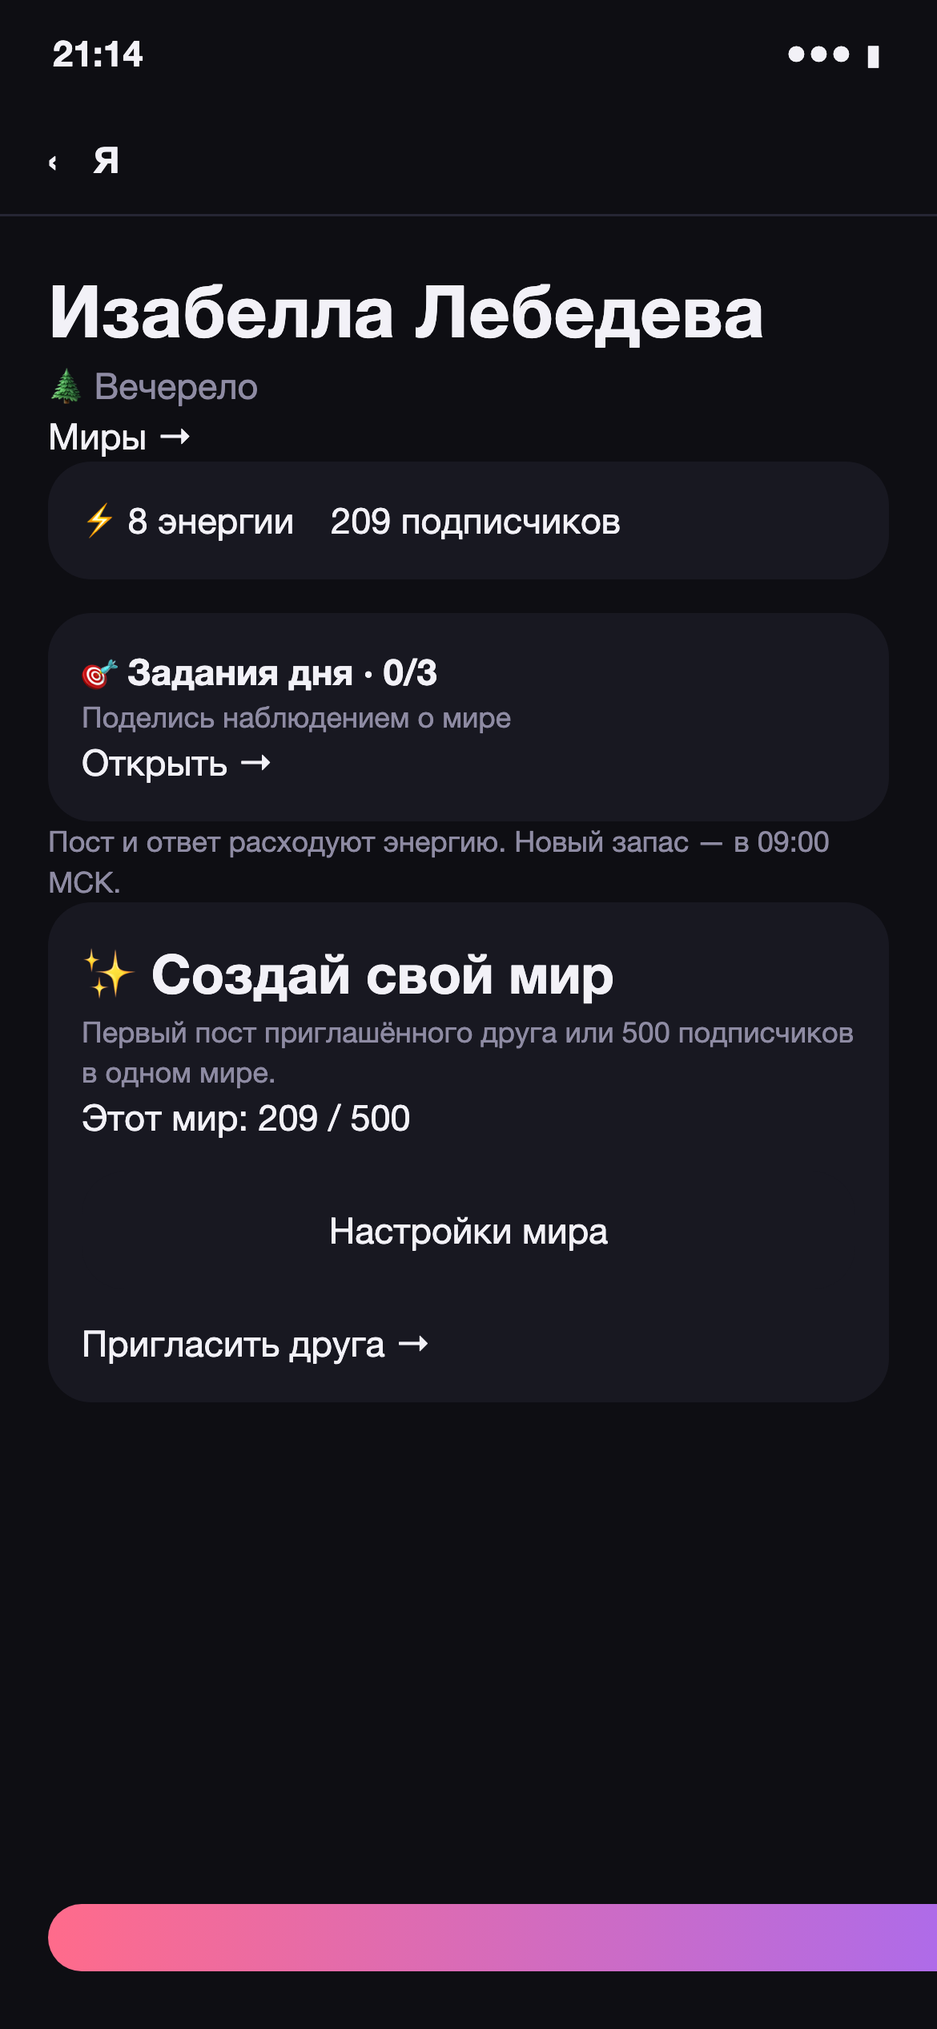
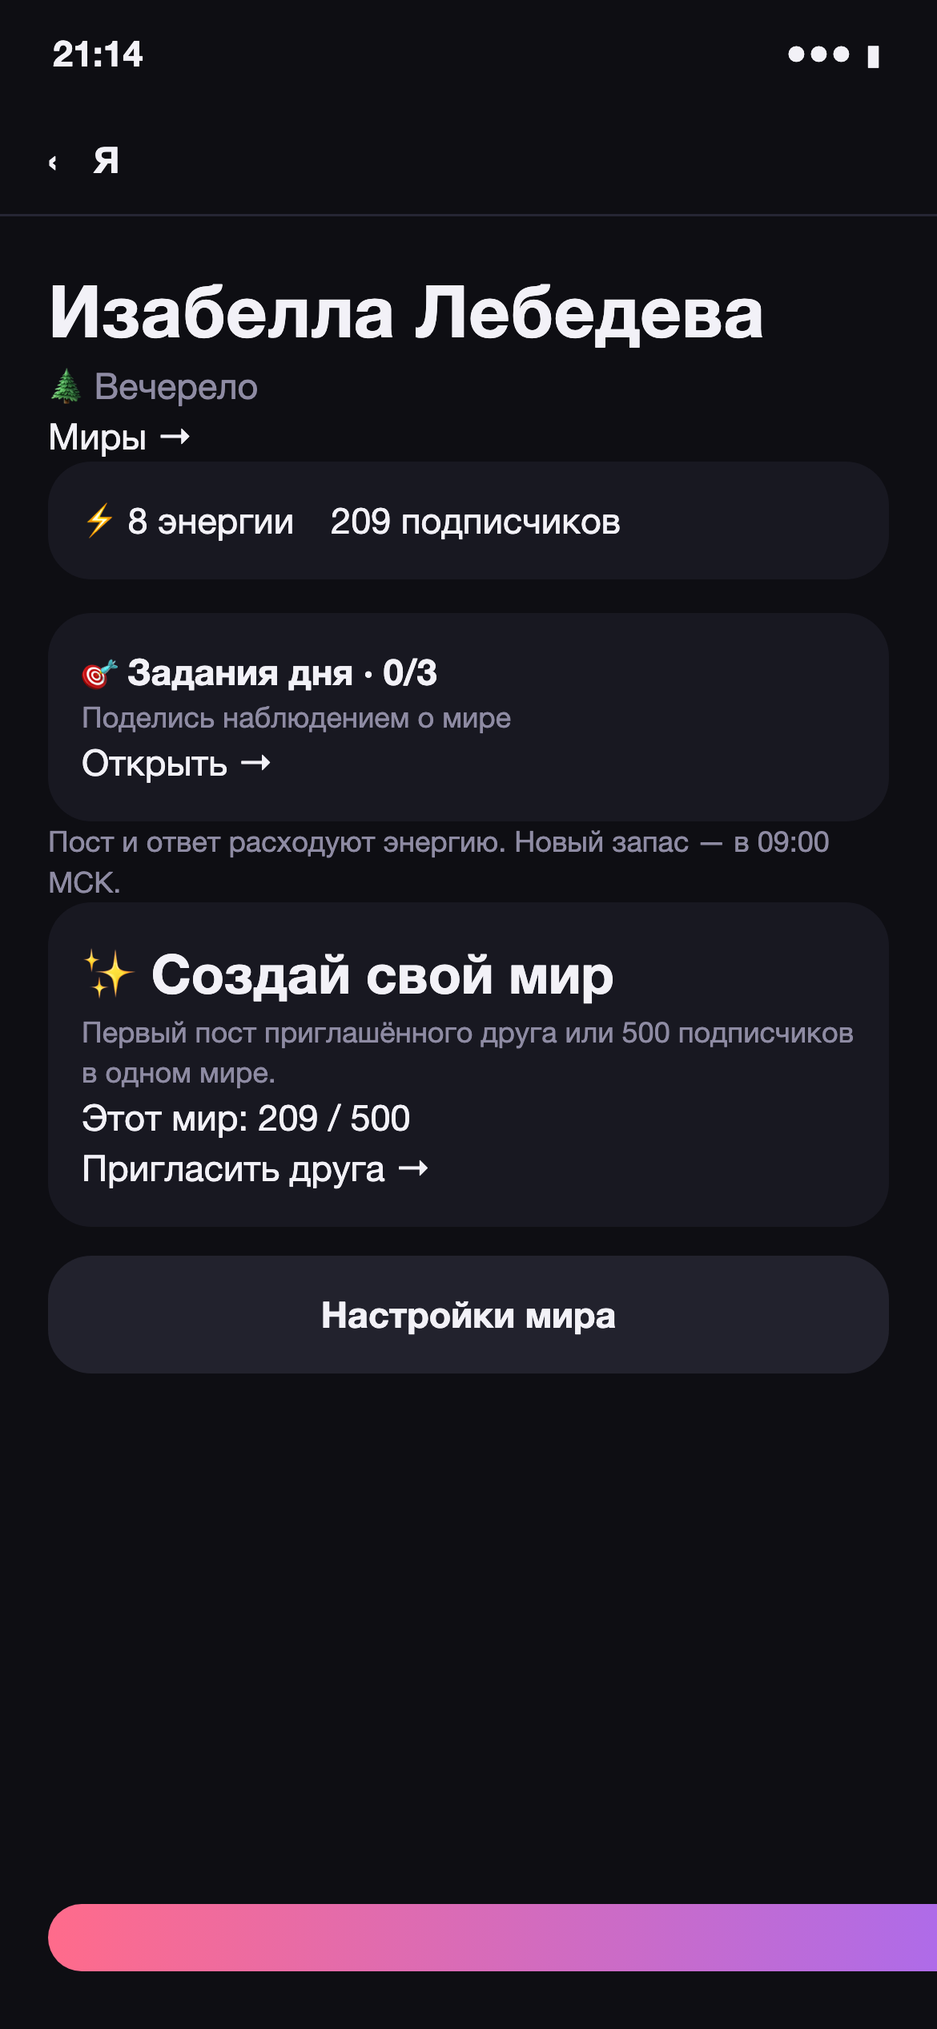
#189 Refine button hierarchy and separate current world settings

Changed region(s): [[0.3077, 0.5616, 0.6462, 0.6864], [0.0923, 0.6552, 0.2769, 0.6864], [0.0923, 0.5616, 0.2769, 0.5928]]

diff --git a/frontend/src/screens/day.tsx b/frontend/src/screens/day.tsx
@@ -271,7 +271,8 @@ function Me() {
           {[[`⚡ ${p.postsLeft}`, 'энергии'], [fmt(p.subs), 'подписчиков']].map(([v, l]) => <Card key={l} style={{ padding: 14, textAlign: 'center' }}><div style={{ fontWeight: 800, fontSize: 16 }}>{v}</div><div className="small muted">{l}</div></Card>)}
         </div>
         <div className="profile-task-row"><div><b>💡 О чём написать</b><p className="small muted">{p.wants[0]?.text ?? "Поделись событием из своего мира"}</p></div><button className="text-link small" onClick={() => nav.push('02-1_compose')}>Написать →</button></div><p className="small muted energy-help">Пост и ответ расходуют энергию. Новый запас — в 09:00 МСК.</p>
-        <Card style={{ marginBottom: 18 }}><b>{p.hitOwnWorldMilestone ? '✨ Свой мир открыт' : '✨ Создай свой мир'}</b><p className="small muted">{p.hitOwnWorldMilestone ? 'Доступ подтверждён. Можно придумать свою историю.' : 'Первый пост приглашённого друга или 500 подписчиков в одном мире.'}</p>{!p.hitOwnWorldMilestone && <><progress aria-label="Подписчики до открытия своего мира" value={Math.min(500, p.subs)} max={500} /><div className="small muted">Этот мир: {Math.min(500, p.subs)} / 500</div></>}<Button secondary onClick={() => nav.push('05-11_world_rules')}>Настройки мира</Button><button className="text-link" onClick={() => { if (p.hitOwnWorldMilestone) { beginOwnWorld(p); nav.push('05-7b_own_world', { world: 'own' }) } else nav.push('04-3_invite') }}>{p.hitOwnWorldMilestone ? 'Создать свой мир →' : 'Пригласить друга →'}</button></Card>
+        <Card style={{ marginBottom: 12 }}><b>{p.hitOwnWorldMilestone ? '✨ Свой мир открыт' : '✨ Создай свой мир'}</b><p className="small muted">{p.hitOwnWorldMilestone ? 'Доступ подтверждён. Можно придумать свою историю.' : 'Первый пост приглашённого друга или 500 подписчиков в одном мире.'}</p>{!p.hitOwnWorldMilestone && <><progress aria-label="Подписчики до открытия своего мира" value={Math.min(500, p.subs)} max={500} /><div className="small muted">Этот мир: {Math.min(500, p.subs)} / 500</div></>}<button className="text-link" onClick={() => { if (p.hitOwnWorldMilestone) { beginOwnWorld(p); nav.push('05-7b_own_world', { world: 'own' }) } else nav.push('04-3_invite') }}>{p.hitOwnWorldMilestone ? 'Создать свой мир →' : 'Пригласить друга →'}</button></Card>
+        <div className="profile-world-settings"><Button secondary onClick={() => nav.push('05-11_world_rules')}>Настройки мира</Button></div>
         <Card style={{ marginBottom: 10 }}>
           <div className="row" style={{ justifyContent: 'space-between', marginBottom: 8 }}><b>Серия {p.streak.days} дня</b><span className="small" style={{ color: 'var(--gift)' }}>{p.streak.nextReward}</span></div>
           <div style={{ display: 'flex', gap: 6 }}>{DAYS.map((d, i) => <div key={d} style={{ flex: 1, textAlign: 'center' }}><div style={{ height: 30, borderRadius: 9, display: 'flex', alignItems: 'center', justifyContent: 'center', fontSize: 14, ...(p.streak.week[i] ? { background: 'var(--grad)' } : i === today ? { border: '2px dashed var(--accent)' } : { background: '#20202B' }) }}>{p.streak.week[i] ? '🔥' : i === today ? '?' : ''}</div><div className="small muted" style={{ marginTop: 3 }}>{d}</div></div>)}</div>

diff --git a/frontend/src/screens/worldQuick.tsx b/frontend/src/screens/worldQuick.tsx
@@ -1,4 +1,4 @@
-import { useState } from 'react'
+import { useState, type ReactNode } from 'react'
 import { useStore } from '../app/store'
 import { avatarPersonalization } from '../app/avatarPersonalization'
 import { displayHandle } from '../app/handle'
@@ -73,8 +73,8 @@ export function QuickChannelForm({ draft }: { draft: WorldDraft }) {
     <details className="card profile-preview"><summary><Avatar seed={d.avatar} avatarStyle={d.avatarStyle} profile={{ address: draft.address, ageBand: draft.ageBand, personalizeAvatar: draft.personalizeAvatar }} size={40} /><span><b>{d.name || "Твой персонаж"}</b><span className="small muted">{displayHandle(d.avatar)}</span></span><span className="small">Изменить</span></summary><label className="label">Ник<input aria-label="Ник" value={d.avatar} maxLength={80} onChange={e => updateWorldDraft({ avatar: e.target.value })} /></label><Avatar seed={d.avatar} avatarStyle={d.avatarStyle} profile={{ address: draft.address, ageBand: draft.ageBand, personalizeAvatar: draft.personalizeAvatar }} size={56} /><AvatarPersonalization enabled={draft.personalizeAvatar !== false} onChange={personalizeAvatar => setWorldDraft({ ...draft, personalizeAvatar })} /></details>
   </div><BottomCTA main="Выбрать градус драмы" disabled={!d.name.trim() || !d.role.trim() || !d.avatar.trim()} onMain={() => nav.push('01-4b_world_setup')} /></div>
 }
-export function DramaPicker({ definition: d }: { definition: WorldDefinition }) {
-  return <><h1>Сколько драмы добавим?</h1><p className="muted">Выбери настроение истории. Его можно изменить позже.</p><div className="drama-options">{dramaOptions.map(option => <button className={`drama-option ${d.drama === option.id ? 'selected' : ''}`} aria-pressed={d.drama === option.id} onClick={() => updateWorldDraft({ drama: option.id })} key={option.id}><span className="drama-icon">{option.icon}</span><div><b>{option.title}</b><p>{option.description}</p>{d.drama === option.id && <div className="drama-example">{option.example}</div>}</div><span>{d.drama === option.id ? '✓' : ''}</span></button>)}</div></>
+export function DramaPicker({ definition: d, beforeOptions }: { definition: WorldDefinition; beforeOptions?: ReactNode }) {
+  return <><h1>Сколько драмы добавим?</h1><p className="muted">Выбери настроение истории. Его можно изменить позже.</p>{beforeOptions}<div className="drama-options">{dramaOptions.map(option => <button className={`drama-option ${d.drama === option.id ? 'selected' : ''}`} aria-pressed={d.drama === option.id} onClick={() => updateWorldDraft({ drama: option.id })} key={option.id}><span className="drama-icon">{option.icon}</span><div><b>{option.title}</b><p>{option.description}</p>{d.drama === option.id && <div className="drama-example">{option.example}</div>}</div><span>{d.drama === option.id ? '✓' : ''}</span></button>)}</div></>
 }
 export function WorldPrototypePreview() {
   const draft = useWorldDraft(); const nav = useNav()

diff --git a/frontend/src/screens/worldWizard.tsx b/frontend/src/screens/worldWizard.tsx
@@ -81,7 +81,7 @@ function StarsForm({ draft, quick = false }: { draft: NonNullable<ReturnType<typ
       else setError(cause instanceof ApiError && cause.status === 409 ? 'Мир изменился или создание с нуля пока недоступно. Твои изменения сохранены в черновике.' : cause instanceof ApiError && cause.status === 503 ? 'Проверка истории временно недоступна. Настройки сохранены — попробуй начать ещё раз чуть позже.' : 'Не получилось сохранить мир. Проверь поля и попробуй снова.')
     } finally { setSaving(false) }
   }
-  if (quick) return <div className="screen no-tab"><TopBar title="Настроение истории" onBack={saving ? undefined : nav.back} /><div className="pad"><Button secondary onClick={() => nav.push('05-12_world_advanced')}>Редактировать мир</Button><p className="small muted">Мир можно будет отредактировать позже</p><DramaPicker definition={d} />
+  if (quick) return <div className="screen no-tab"><TopBar title="Настроение истории" onBack={saving ? undefined : nav.back} /><div className="pad"><DramaPicker definition={d} beforeOptions={<div className="drama-world-edit"><Button secondary onClick={() => nav.push('05-12_world_advanced')}>Редактировать мир</Button><p className="small muted">Мир можно будет отредактировать позже</p></div>} />
     <div className="quick-summary"><Avatar seed={d.avatar} avatarStyle={d.avatarStyle} profile={{ address: draft.address, ageBand: draft.ageBand, personalizeAvatar: draft.personalizeAvatar }} /><div><b>{d.name}</b><div className="small muted">{d.title} · {d.role}</div></div></div>
     {draft.previewOnly && <p className="small prototype-note">DEV-прототип: дальше — пример ленты, без создания мира в базе.</p>}
     {error && <p role="alert">{error}</p>}{uncertain && <Button onClick={() => nav.replace('01-3_world')}>Проверить список миров</Button>}

diff --git a/frontend/src/theme.css b/frontend/src/theme.css
@@ -400,3 +400,7 @@ summary:focus-visible { outline: 2px solid var(--lilac); outline-offset: 4px; bo
 .welcome-disclaimer { margin-top: 10px; }
 .welcome-world-choice { text-align: center; font-size: 15px; font-weight: 400; color: var(--lilac); margin-top: 24px; }
 @media (max-width: 350px) { .welcome h1 { font-size: 30px; } .intro-portrait-gosha { width: 52px; height: 52px; } }
+
+.drama-world-edit { margin-top: 16px; }
+.drama-world-edit > p { margin-top: 8px; }
+.profile-world-settings { margin-bottom: 18px; }

diff --git a/docs/design/src/journey_v28.py b/docs/design/src/journey_v28.py
@@ -1,0 +1,13 @@
+# #189: user-approved hierarchy and separation of current-world settings.
+edit = '<div class="card" style="text-align:center">Редактировать мир</div><p class="small muted">Мир можно будет отредактировать позже</p>'
+assert edit in S['01-4b_world_setup']
+S['01-4b_world_setup'] = S['01-4b_world_setup'].replace(edit, '', 1)
+intro = '<p class="muted">Выбери настроение истории. Его можно изменить позже.</p>'
+assert intro in S['01-4b_world_setup']
+S['01-4b_world_setup'] = S['01-4b_world_setup'].replace(intro, intro + '<div style="margin:16px 0"><div class="card" style="text-align:center;background:#22222D;font-weight:700">Редактировать мир</div><p class="small muted" style="margin-top:8px">Мир можно будет отредактировать позже</p></div>', 1)
+settings = '<div class="card" style="text-align:center;margin:12px 0">Настройки мира</div>'
+assert settings in S['05-5_collection']
+S['05-5_collection'] = S['05-5_collection'].replace(settings, '', 1)
+invite = '<p>Пригласить друга →</p></div>'
+assert invite in S['05-5_collection']
+S['05-5_collection'] = S['05-5_collection'].replace(invite, invite + '<div class="card" style="text-align:center;margin:12px 0 18px;background:#22222D;font-weight:700">Настройки мира</div>', 1)

diff --git a/docs/design/src/build_journey.py b/docs/design/src/build_journey.py
@@ -333,6 +333,8 @@ exec(open(os.path.join(D, 'journey_v26.py'), encoding='utf-8').read())  # narrat
 
 exec(open(os.path.join(D, 'journey_v27.py'), encoding='utf-8').read())  # #189 editor navigation and settings
 
+exec(open(os.path.join(D, 'journey_v28.py'), encoding='utf-8').read())  # #189 button hierarchy
+
 CH = os.environ.get('CHROME_BIN') or shutil.which('google-chrome') or shutil.which('chrome')
 if not CH and os.name == 'nt':
     CH = os.path.join(os.environ.get('PROGRAMFILES', 'C:\\Program Files'), 'Google', 'Chrome', 'Application', 'chrome.exe')

diff --git a/docs/game-flow.md b/docs/game-flow.md
@@ -29,7 +29,7 @@
 4. **Мир.** Все четыре пресета доступны сразу: «Вечерело», «Школа чародеев», «Игра домов», «Айти-тусовка». Создание с нуля открывает постоянный HitOwnWorldMilestone: 500 подписчиков в одном принадлежащем игроку мире либо начисленный бонус пригласившему за первый пост друга. Реки+ и навыки этот доступ не открывают.
 5. **Канал:** роль в мире, название и ник, «как к тебе обращаться: она / он / по нику». Превью показывает выбранную роль; био убрано.
 6. **Решено 13.10.2026: короткий путь из пресета:** для пресета обзор с обложкой → свой персонаж либо герой мира → градус драмы → начало игры. Голос, правила и состав мира берутся из пресета; обязательных редакторов описания и голоса нет. Выбранный герой удаляется из AI-состава. Для создания с нуля быстрый путь: название и описание → персонаж → драма. Расширенные настройки добровольны; единый черновик сохраняет ввод между режимами. Профиль регистрируется только при фактическом создании пресета, если его ещё нет.
-7. **Редактирование мира (#189):** на шаге драмы кнопка «Редактировать мир» стоит над вариантами с пояснением «Мир можно будет отредактировать позже». Временный вход в расширенный редактор сохраняет исходный экран и режим в истории навигации. «Быстрые настройки», стрелка приложения и Telegram BackButton возвращают на этот экран, сохраняя персонажа, драму и все изменения полей; повторные входы не добавляют циклов. На экране «Я» кнопка «Настройки мира» расположена под прогрессом открытия своего мира и остаётся доступной после открытия. Она ведёт на 05-11 с действием «Редактировать мир». В общих настройках прежнего входа «Как устроен мир» нет; ссылка в ленте сохраняется.
+7. **Редактирование мира (#189):** на шаге драмы кнопка «Редактировать мир» стоит после заголовка и описания, над вариантами с пояснением «Мир можно будет отредактировать позже». Временный вход в расширенный редактор сохраняет исходный экран и режим в истории навигации. «Быстрые настройки», стрелка приложения и Telegram BackButton возвращают на этот экран, сохраняя персонажа, драму и все изменения полей; повторные входы не добавляют циклов. На экране «Я» кнопка «Настройки мира» расположена отдельной строкой сразу под карточкой открытия своего мира и остаётся доступной после открытия. Она ведёт на 05-11 с действием «Редактировать мир». В общих настройках прежнего входа «Как устроен мир» нет; ссылка в ленте сохраняется.
 8. **Демо собственного мира:** в DEV доступен просмотр быстрой настройки независимо от игрового доступа; он не открывает доступ на сервере и не создаёт мир. Заполнение героев и завязки — явно обозначенные фиксированные демонстрационные данные, не AI. Финал показывает пример ленты без POST /worlds. Backend-задача генерации будет оформлена после одобрения прототипа; API генерации пока нет. Ручной расширенный редактор существующих миров сохраняет PUT и прогресс. Общие ограничения безопасности действуют, но не дублируются подписью на шаге драмы.
 8. **Первый экран:** после создания открывается канал нового мира (03-5). Для повторного входа без опубликованных постов доступна завязка и кнопка первого поста. Популярность и события относятся к игре.
 
